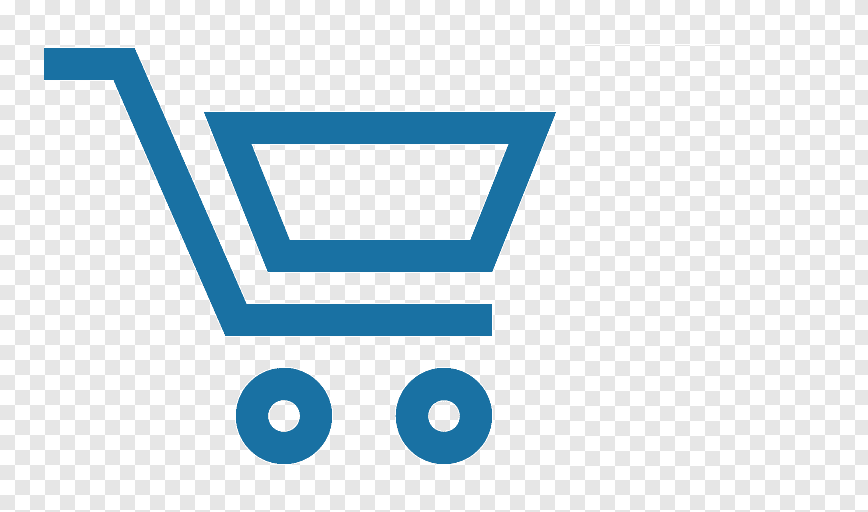
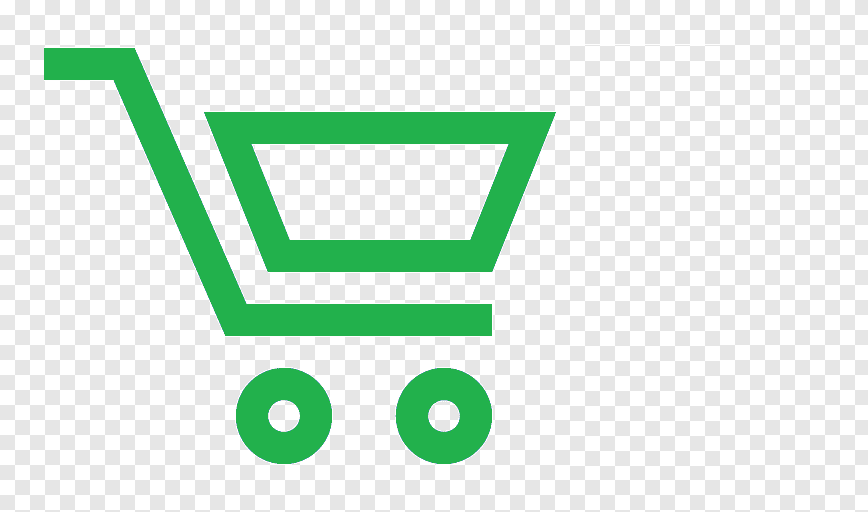
Реалізовано підрахунок к-ті товарів в корзині

Changed region(s): [[0.0311, 0.0938, 0.6532, 0.6562], [0.4355, 0.7188, 0.591, 0.9062], [0.2488, 0.7188, 0.4044, 0.9062]]

diff --git a/js/main.js b/js/main.js
@@ -1,3 +1,5 @@
+import { updateCartState } from './cart.js';
+
 // Відкриваємо попап покупки при кліку на будь-яку кнопку "Купити зараз". Початок.
 document.querySelectorAll('.buyNow').forEach(btn => {
   btn.addEventListener('click', (event) => {
@@ -58,6 +60,8 @@ document.querySelectorAll('.buyNow').forEach(button => {
           button.classList.add('clicked');
           localStorage.setItem(id, 'clicked');
         }
+
+        updateCartState(); // оновлюємо відображення кошика
   });
 });
 // Клік кнопки "Купити зараз". Кінець
@@ -193,6 +197,20 @@ form.addEventListener("submit", (e) => {
   console.log("Ім’я користувача:", nameInput.value.trim());
   console.log("Телефон:", phoneInput.value.trim());
   console.log("Фільм:", movieTitle.trim());
+
+  // Очищаємо всі покупки (стан кнопок і localStorage)
+  document.querySelectorAll(".buyNow").forEach(button => {
+    const id = button.dataset.id;
+
+    // Якщо кнопка була у стані "clicked", очищаємо
+    if (localStorage.getItem(id) === 'clicked') {
+      button.classList.remove("clicked");
+      localStorage.removeItem(id);
+    }
+  });
+
+  // Оновити корзину
+  updateCartState();
 
   // Очистка полів
   resetPurchaseForm();

diff --git a/js/cart.js b/js/cart.js
@@ -11,3 +11,31 @@ document.addEventListener("DOMContentLoaded", function () {
     }
   });
 });
+
+export function updateCartState() {
+  let count = 0;
+
+  for (let key in localStorage) {
+    if (localStorage.hasOwnProperty(key) && key.startsWith("button")) {
+      if (localStorage.getItem(key) === "clicked") {
+        count++;
+      }
+    }
+  }
+
+  const cartImg = document.getElementById("cart");
+  const cartCount = document.getElementById("cart-count");
+
+  // Зміна картинки
+  if (count > 0) {
+    cartImg.src = "images/cart-icon-2.png";
+    cartCount.textContent = count;
+    cartCount.style.display = "inline-block";
+  } else {
+    cartImg.src = "images/cart-icon.png";
+    cartCount.style.display = "none";
+  }
+}
+
+// Виклик при завантаженні сторінки
+document.addEventListener("DOMContentLoaded", updateCartState);

diff --git a/index.html b/index.html
@@ -20,6 +20,7 @@
         <!-- Кнопка корзини -->
         <div class="cart-button">
           <img src="images/cart-icon.png" alt="Перейти до корзини" id="cart">
+          <span id="cart-count" class="cart-count"></span>
         </div>
 
         <h1>Кіно Світ</h1>
@@ -122,8 +123,8 @@
     </div>
 
 <script src="js/language-switcher.js" defer></script>
-<script src="js/main.js" defer></script>
+<script type="module" src="js/main.js" defer></script>
 <script src="js/modal-video.js" defer></script>
-<script src="js/cart.js" defer></script>
+<script type="module" src="js/cart.js" defer></script>
 </body>
 </html>

diff --git a/index-en.html b/index-en.html
@@ -20,6 +20,7 @@
         <!-- Кнопка корзини -->
         <div class="cart-button">
           <img src="images/cart-icon.png" alt="Go to cart" id="cart">
+          <span id="cart-count" class="cart-count"></span>
         </div>
 
         <h1>Kino Svit</h1>
@@ -122,8 +123,8 @@
     </div>
 
 <script src="js/language-switcher.js" defer></script>
-<script src="js/main.js" defer></script>
+<script type="module" src="js/main.js" defer></script>
 <script src="js/modal-video.js" defer></script>
-<script src="js/cart.js" defer></script>
+<script type="module" src="js/cart.js" defer></script>
 </body>
 </html>

diff --git a/style.css b/style.css
@@ -383,4 +383,16 @@ h4 {
   border-radius: 10px;
   border: 2px solid #ff6600;
 }
+
+.cart-count {
+  position: absolute;
+  top: -2px;
+  right: -3px;
+  background-color: #22B14C;
+  color: white;
+  font-size: 14px;
+  padding: 2px 6px;
+  border-radius: 50%;
+  display: none; /* буде видно лише коли > 0 */
+}
 /*  Кнопка корзини. Кінець */
